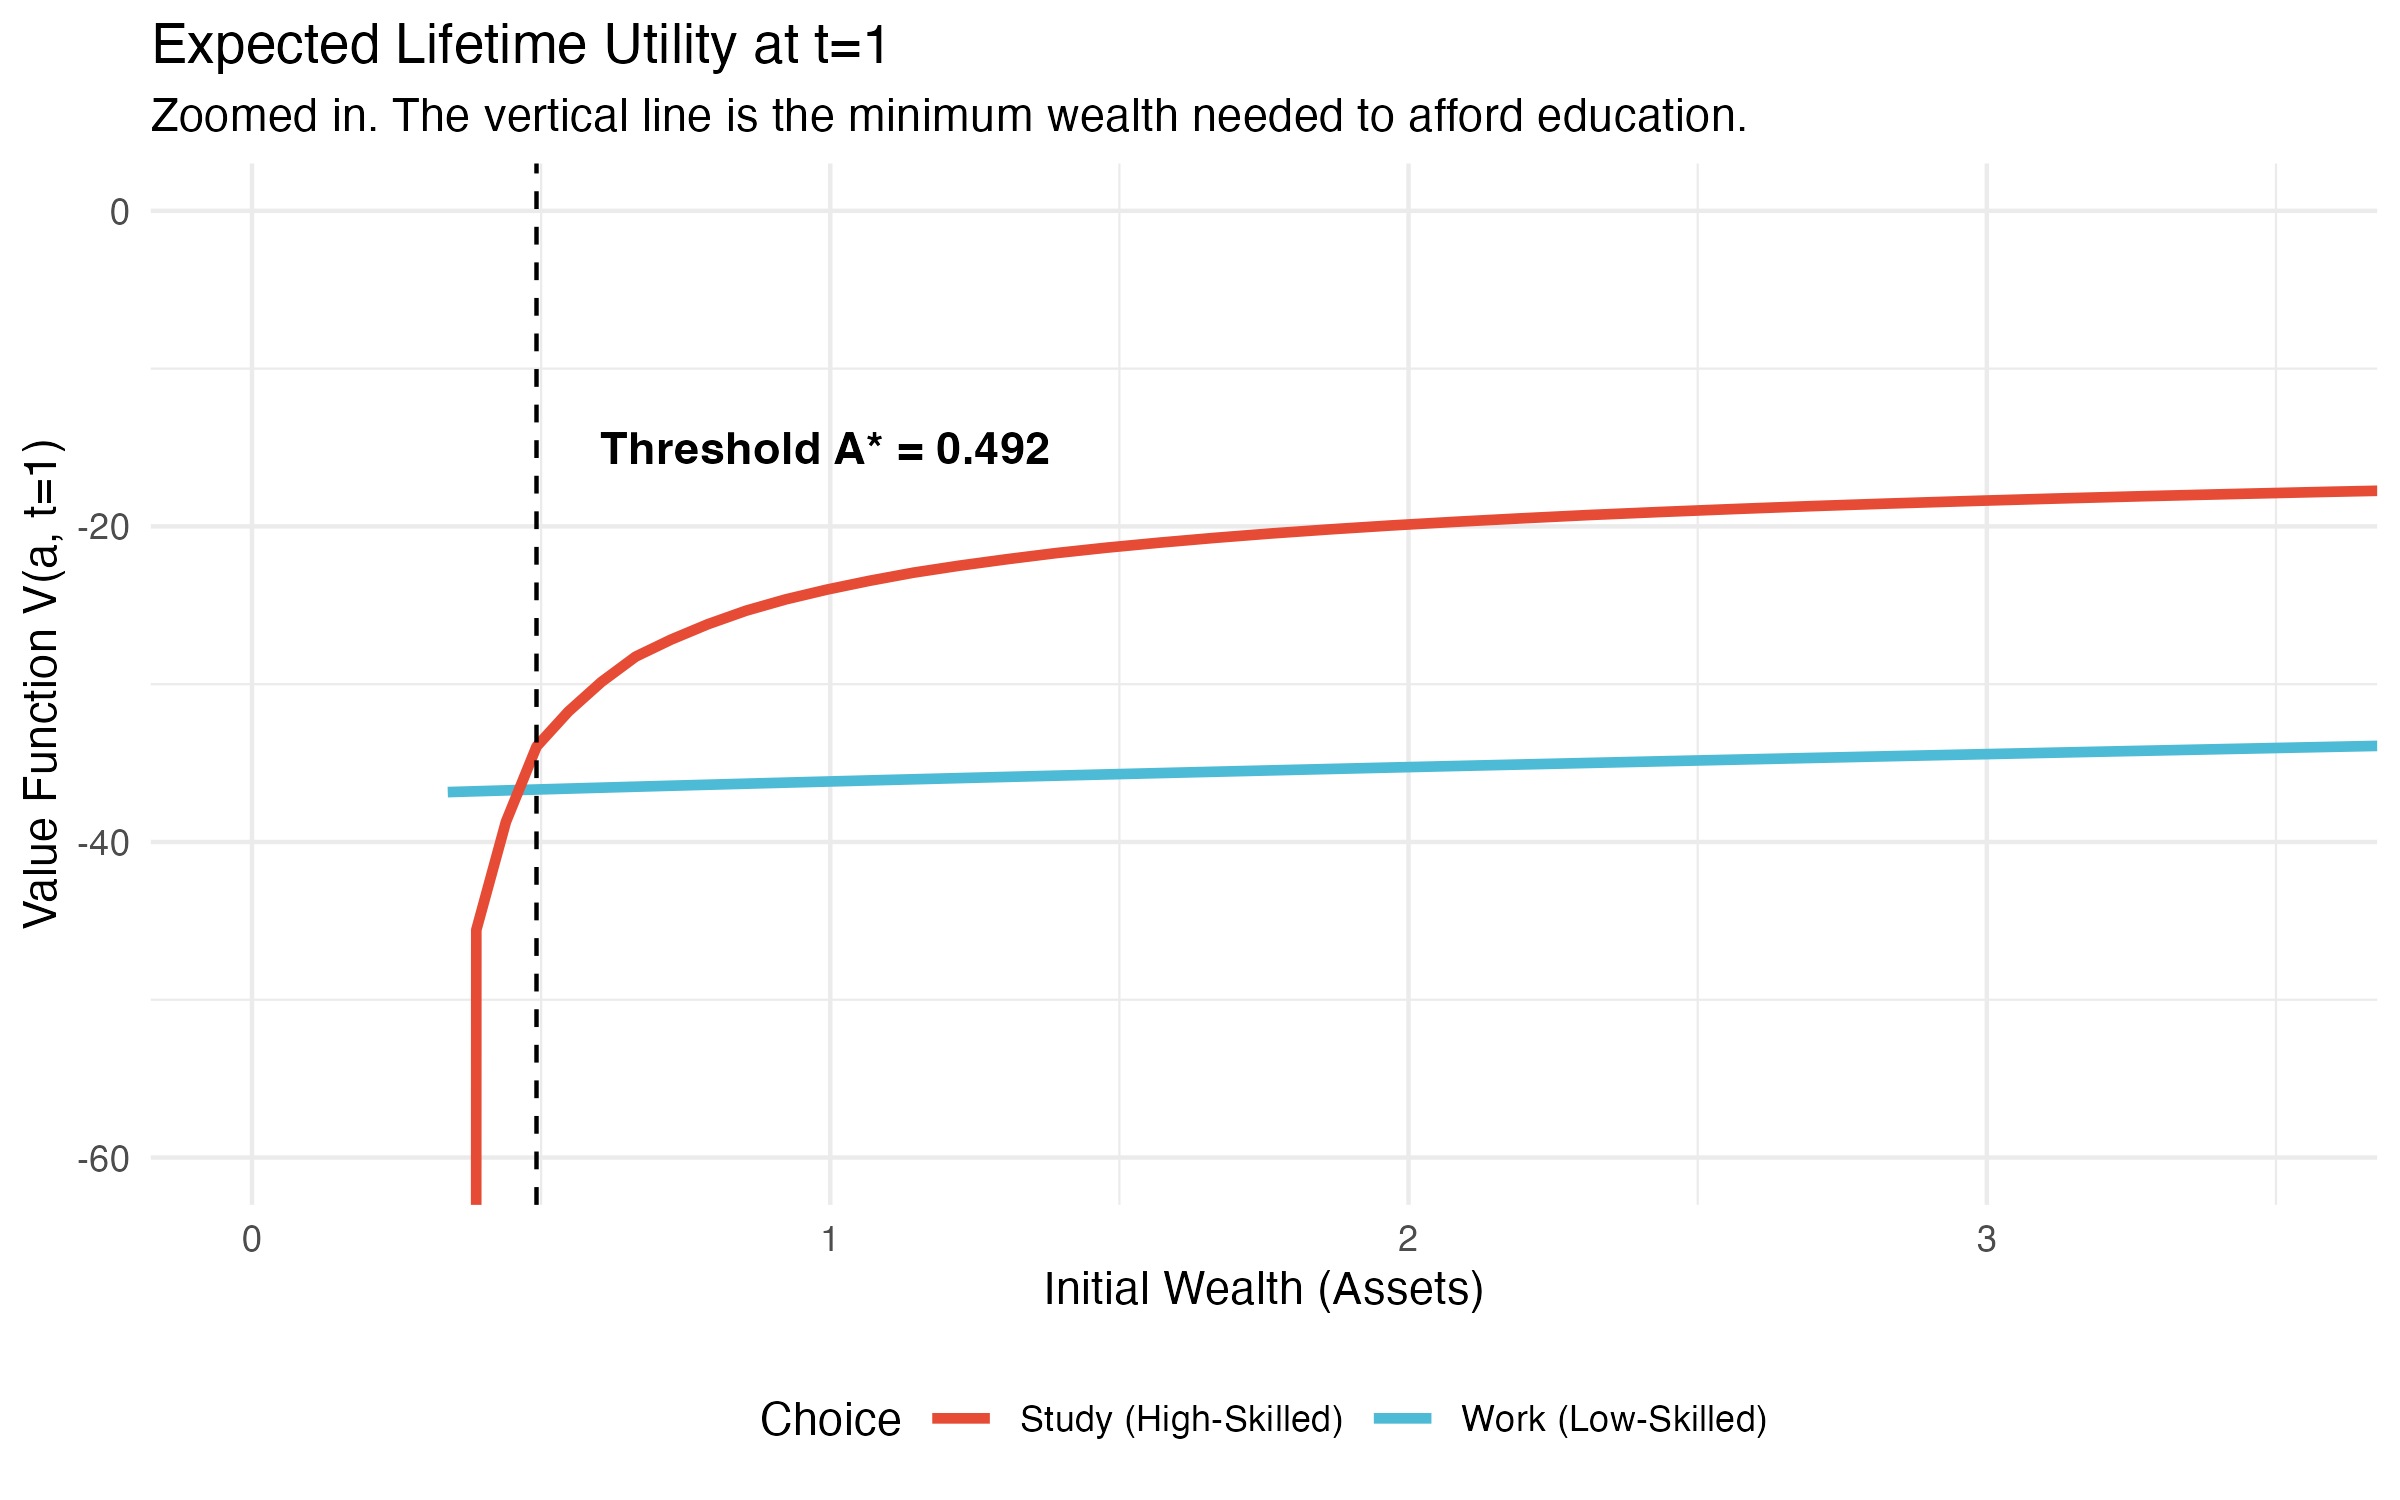
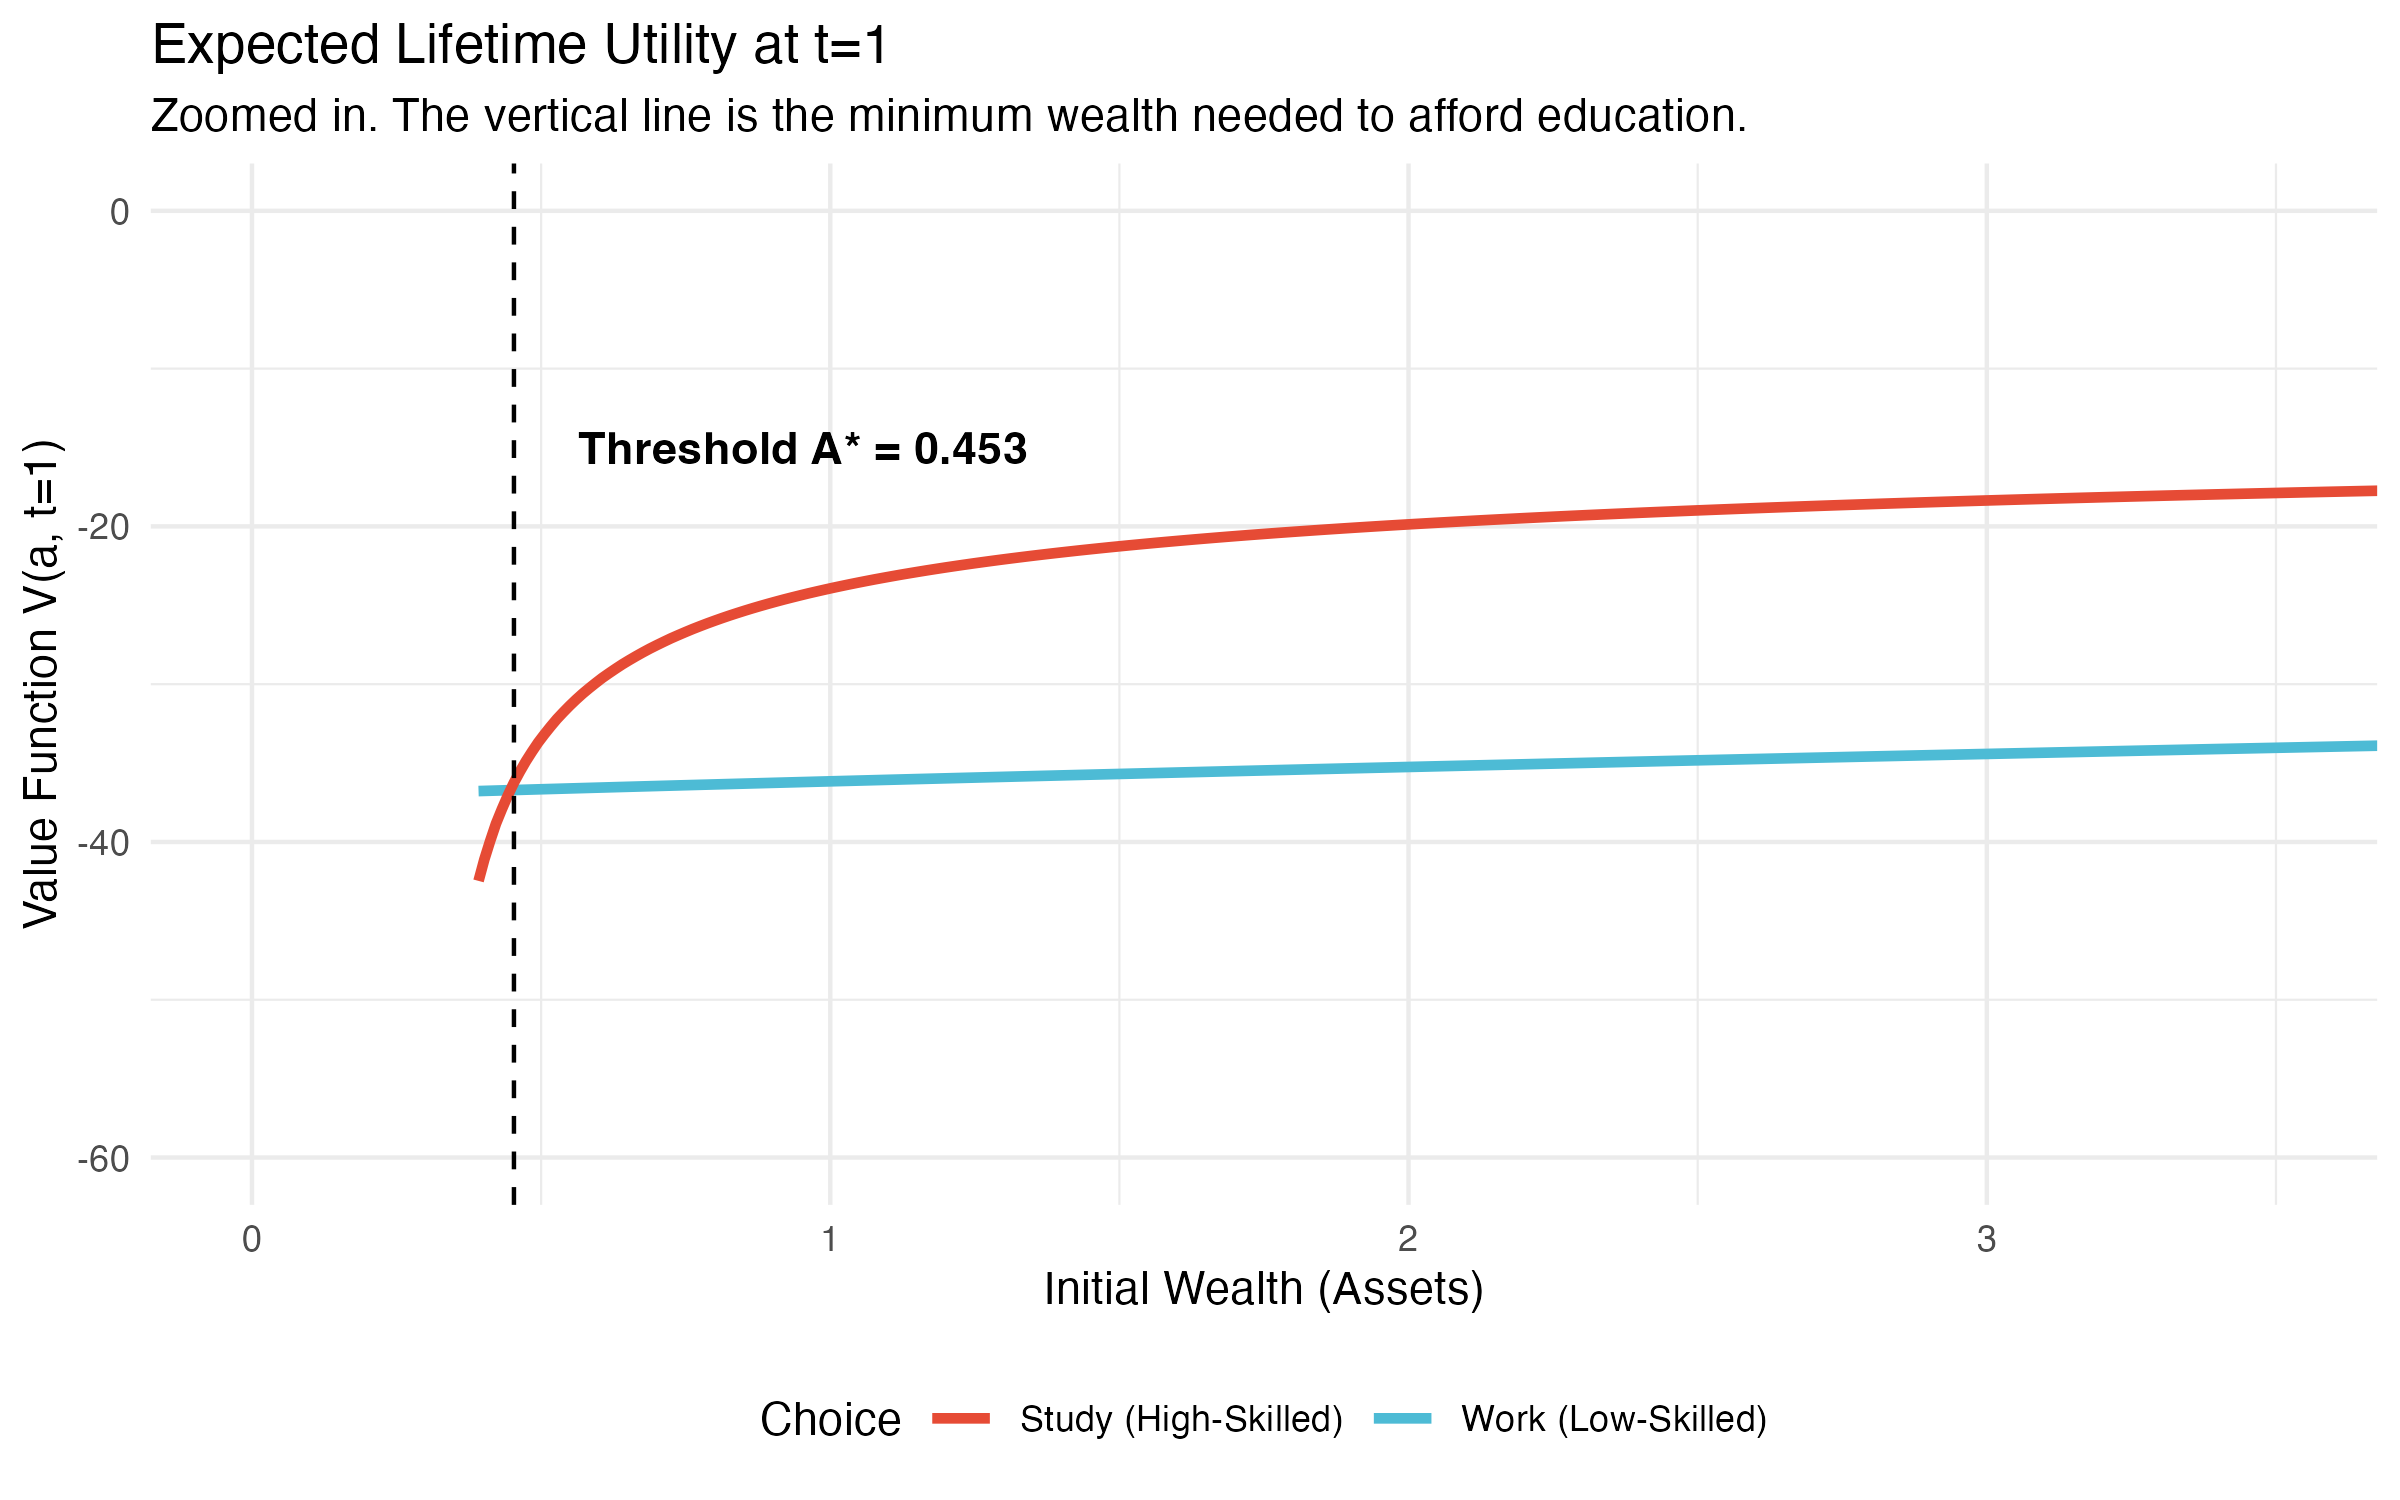
Increase grid & sim size; add outputs
Increase numerical resolution and simulation sample: NK (asset grid points) raised from 60 to 500 and NSIM from 1,000 to 10,000 in Code/parameters.R; minor comments clarified. Update includes a refreshed discrete_choice_t1.png (binary changed) and a new figure Output/Figures/mechanism_paths.png. Update benchmark table timings in Output/Tables/benchmark_results.tex to reflect new measurements, and add a new robustness table Output/Tables/robustness_thresholds.tex with threshold results for several scenarios. These changes improve accuracy and add outputs for robustness analysis.

Changed region(s): [[0.1875, 0.5213, 0.2188, 0.7973], [0.2188, 0.276, 0.4375, 0.3067], [0.2188, 0.46, 0.25, 0.5213]]

diff --git a/Output/Tables/benchmark_results.tex b/Output/Tables/benchmark_results.tex
@@ -1,12 +1,12 @@
 
 % Table created by stargazer v.5.2.3 by Marek Hlavac, Social Policy Institute. E-mail: marek.hlavac at gmail.com
-% Date and time: Mon, Apr 20, 2026 - 10:25:43
+% Date and time: Tue, Apr 21, 2026 - 09:58:42
 \begin{tabular}{@{\extracolsep{5pt}} cccc} 
 \\[-1.8ex]\hline 
 \hline \\[-1.8ex] 
 Grid\_Size & Mean\_Time\_Seconds & Min\_Time\_Seconds & Max\_Time\_Seconds \\ 
 \hline \\[-1.8ex] 
-NK = 30 & $2.960$ & $2.920$ & $3.010$ \\ 
-NK = 60 & $6.590$ & $6.320$ & $6.940$ \\ 
+NK = 30 & $3.360$ & $3.310$ & $3.420$ \\ 
+NK = 60 & $7.190$ & $7.090$ & $7.330$ \\ 
 \hline \\[-1.8ex] 
 \end{tabular} 

diff --git a/Output/Tables/robustness_thresholds.tex b/Output/Tables/robustness_thresholds.tex
@@ -1,0 +1,14 @@
+
+% Table created by stargazer v.5.2.3 by Marek Hlavac, Social Policy Institute. E-mail: marek.hlavac at gmail.com
+% Date and time: Tue, Apr 21, 2026 - 09:59:25
+\begin{tabular}{@{\extracolsep{5pt}} cc} 
+\\[-1.8ex]\hline 
+\hline \\[-1.8ex] 
+Scenario & Threshold\_A\_star \\ 
+\hline \\[-1.8ex] 
+Baseline (r=0.05, B=0.2) & $0.453$ \\ 
+Low Interest (r=0.02) & $0.493$ \\ 
+High Interest (r=0.08) & $0.492$ \\ 
+Expanded Policy (B=0.4) & $0.002$ \\ 
+\hline \\[-1.8ex] 
+\end{tabular} 
